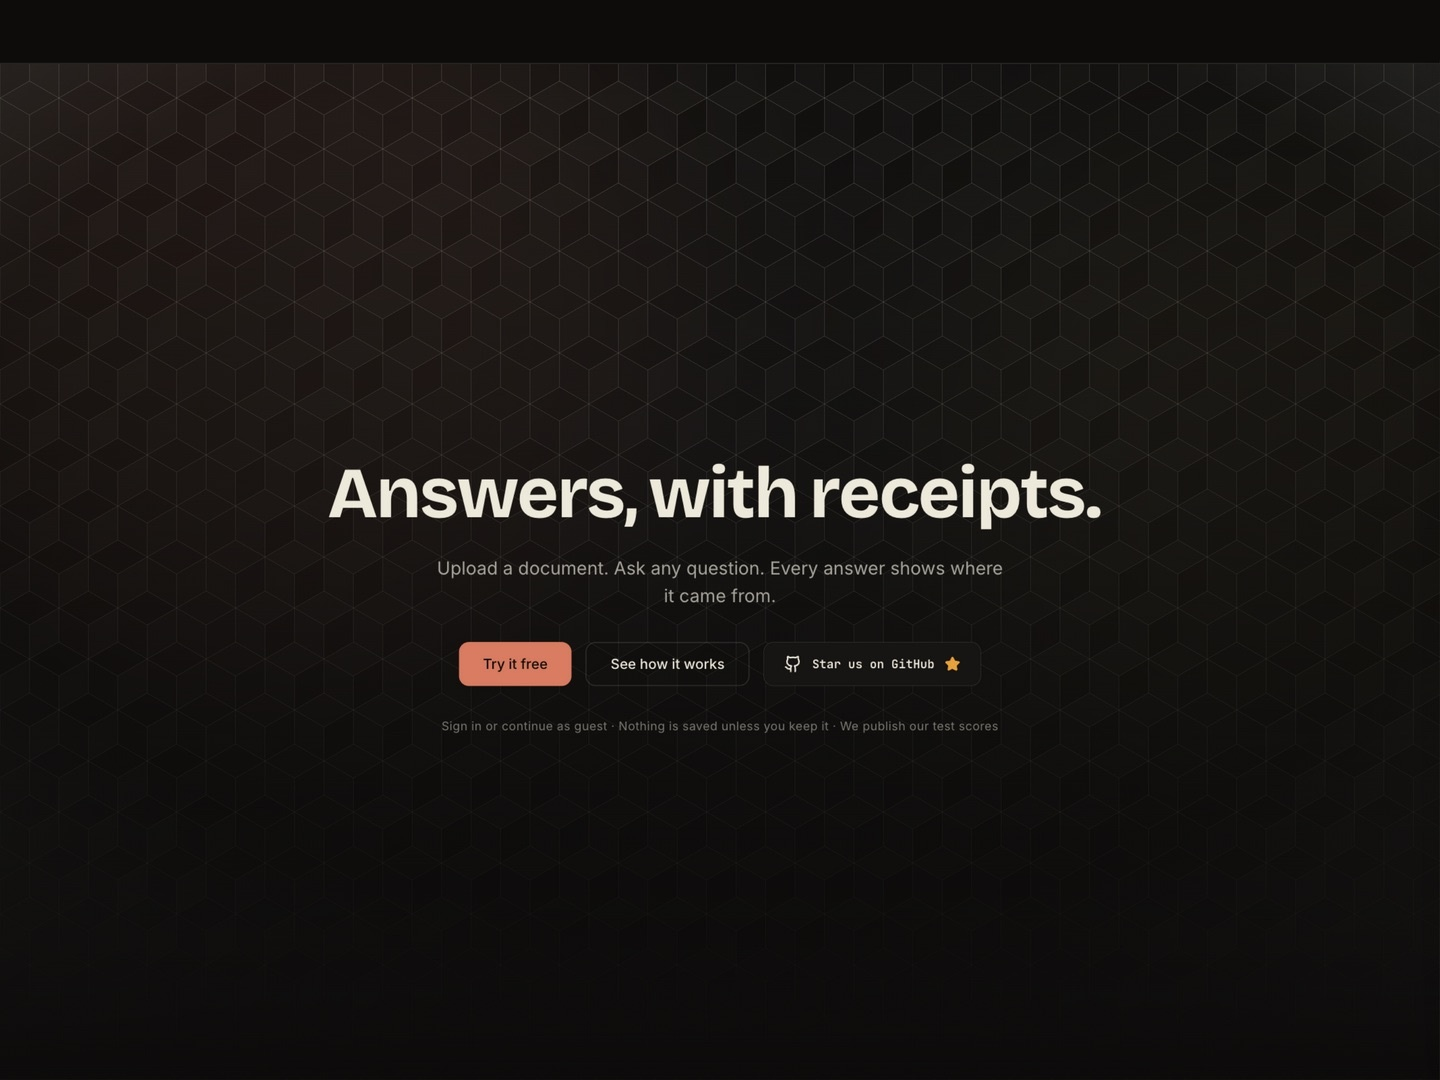
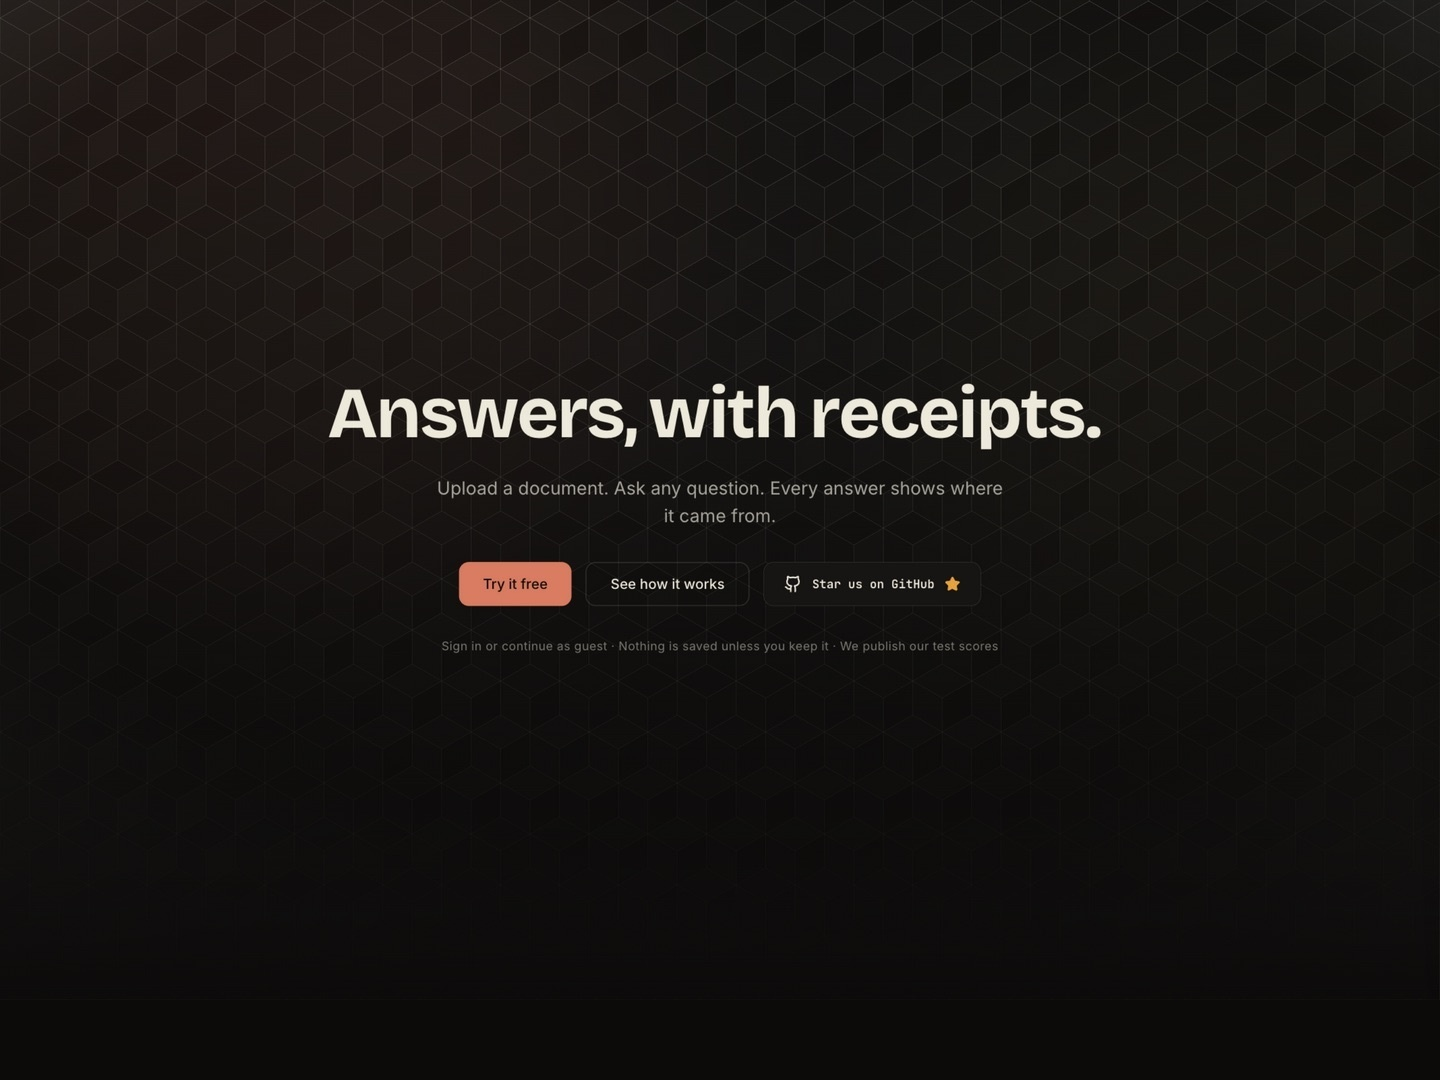
fix(projects): eliminate top border gap in Allcited card and harden parallax bounds

diff --git a/components/projects.tsx b/components/projects.tsx
@@ -32,7 +32,7 @@ export function Projects() {
         const r = rects[i];
         if (!el || !r || r.bottom < 0 || r.top > vh) return;
         const p = Math.max(-1, Math.min(1, (r.top + r.height / 2 - vh / 2) / vh));
-        el.style.transform = `translate3d(0, ${(p * -5).toFixed(2)}%, 0) scale(1.12)`;
+        el.style.transform = `translate3d(0, ${(p * -4).toFixed(2)}%, 0) scale(1.15)`;
       });
     };
     update();
@@ -81,9 +81,9 @@ export function Projects() {
                 }}
                 aria-haspopup="dialog"
                 aria-label={`Open the ${project.name} case study`}
-                className="spotlight group flex h-full w-full flex-col overflow-hidden rounded-xl border border-line bg-panel text-left transition-all duration-300 ease-out hover:-translate-y-1 hover:border-accent/50 hover:shadow-[0_18px_40px_-24px_rgba(0,0,0,0.55)]"
+                className="spotlight group isolate flex h-full w-full flex-col overflow-hidden rounded-xl border border-line bg-panel text-left transition-all duration-300 ease-out hover:-translate-y-1 hover:border-accent/50 hover:shadow-[0_18px_40px_-24px_rgba(0,0,0,0.55)]"
               >
-                <figure className="card-shine relative aspect-[4/3] overflow-hidden border-b border-line">
+                <figure className="card-shine relative aspect-[4/3] overflow-hidden rounded-t-[11px] border-b border-line bg-[#0c0b0a]">
                   <span
                     aria-hidden="true"
                     className="ghost-index absolute left-4 top-3 z-[2] text-5xl sm:text-6xl"
@@ -95,7 +95,7 @@ export function Projects() {
                       figRefs.current[i] = el;
                     }}
                     className="absolute inset-0 will-change-transform"
-                    style={{ transform: "scale(1.12)" }}
+                    style={{ transform: "scale(1.15)" }}
                   >
                     <FadeImage
                       src={project.image.src}
